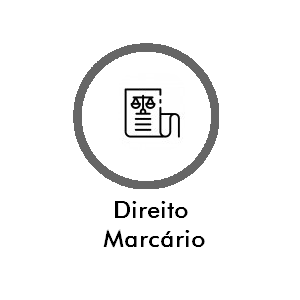
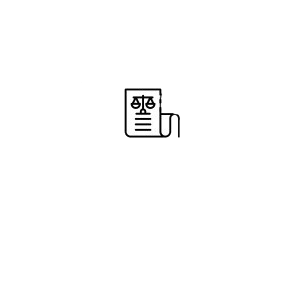
esperando a validação dos ajustes

diff --git a/index.html b/index.html
@@ -71,10 +71,10 @@
 			<section id="acting" class="main__secondSection">
 				<div class="container secondSection__block">
 					<div class="secondSection__areas">
-						<!-- <div>
-							<img src="assets/image/">
-						</div> -->
-						<img class="secondSectionAreas__icons" src="assets/image/iconjud1.png">
+						<div class="secondAreas__border">
+							<img class="secondSectionAreas__icons" src="assets/image/iconjud1.png">
+						</div>
+						<h1 class="secondSection__title">Direito Penal</h1>
 						<ul class="secondSection__paragraph">
 							<li>Presídio</li>
 							<li>Habeas Corpus</li>
@@ -87,67 +87,61 @@
 						</ul>
 					</div>
 					<div class="secondSection__areas">
-						<!-- <div>
-							<img src="assets/image/">
-						</div> -->
-						<img class="secondSectionAreas__icons" src="assets/image/iconjud2.png">
+						<div class="secondAreas__border">
+							<img class="secondSectionAreas__icons" src="assets/image/iconjud2.png">
+						</div>
+						<h1 class="secondSection__title">Direito de Familia</h1>
 						<ul class="secondSection__paragraph">
 							<li>Herança</li>
 							<li>Divórcio</li>
 							<li>Inventário</li>
 							<li>Pensão alimentícia</li>
 							<li>Partilha</li>
-							
-							
 							<li>Reconhecimento União Estável</li>
 						</ul>
 					</div>
 					<div class="secondSection__areas" >
-						<!-- <div>
-							<img src="assets/image/">
-						</div> -->
-						<img class="secondSectionAreas__icons" src="assets/image/iconjud3.png">
+						<div class="secondAreas__border">
+							<img class="secondSectionAreas__icons" src="assets/image/iconjud3.png">
+						</div>
+						<h1 class="secondSection__title">Direito Civil</h1>
 						<ul class="secondSection__paragraph">
 							<li>Seguro DPVAT</li>
 							<li>Contratos-Indenização</li>
 							<li>Acidentes de trânsito</li>
-							
 						</ul>
 					</div>
 					<div class="secondSection__areas">
-						<!-- <div>
-							<img src="assets/image/">
-						</div> -->
-						<img class="secondSectionAreas__icons" src="assets/image/iconjud4.png">
-						<p class="secondSection__paragraph"></p>
+						<div class="secondAreas__border">
+							<img class="secondSectionAreas__icons" src="assets/image/iconjud4.png">
+						</div>
+						<h1 class="secondSection__title">Direito Ambiental</h1>
 						<ul class="secondSection__paragraph">
 							<li>Gestão e controle ambiental</li>
 							<li>Gestão de resíduos sólidos</li>
 							<li>Elaboração, análise e negociação de contratos</li>
 							<li>Atualização legislativa e de jurisprudência ambiental para clientes</li>
 							<li>Suporte em processos de licenciamento ambiental, audiências públicas e gestão de licenciamento</li>
-							
 						</ul>
 					</div>
 					<div class="secondSection__areas">
-						<!-- <div>
-							<img src="assets/image/">
-						</div> -->
-						<img class="secondSectionAreas__icons" src="assets/image/iconjud5.png">
+						<div class="secondAreas__border">
+							<img class="secondSectionAreas__icons" src="assets/image/iconjud5.png">
+						</div>
+						<h1 class="secondSection__title">Direito Marcário</h1>
 						<ul class="secondSection__paragraph">
 							<li>INSS</li>
 							<li>Auxílio doença</li>
 							<li>Concessão de benefício</li>
 							<li>Revisão de aposentadoria</li>
-							
 						</ul>
 						
 					</div>
 					<div class="secondSection__areas">
-						<!-- <div>
-							<img src="assets/image/">
-						</div> -->
-						<img class="secondSectionAreas__icons" src="assets/image/iconjud6.png">
+						<div class="secondAreas__border">
+							<img class="secondSectionAreas__icons" src="assets/image/iconjud6.png">
+						</div>
+						<h1 class="secondSection__title">Direito do Consumidor</h1>
 						<ul class="secondSection__paragraph">
 							<li>Ações Trabalhistas</li>
 							<li>Acordos Extrajuduciais</li>

diff --git a/style.css b/style.css
@@ -27,6 +27,7 @@
 	height: 150px;
 	position: sticky;
 	top: 0;
+	z-index: 10000;
 }
 .header__blockWhite{
 	width: 100%;
@@ -357,24 +358,41 @@ main{
 	width: 300px;
 	height: auto;
 	margin: 13px 10px;
-	/*padding: 0 25px;*/
 	text-align: center;
 	display: flex;
 	align-items: center;
 	flex-direction: column;
 	background: rgba(255,255,255,0.7);	
 	box-shadow: 0 0 8px #242121;
+
+}
+.secondAreas__border{
+	width: 80px;
+	height: 80px;
+	border: 3px solid black;
+	border-radius: 50%;
+	position: relative;
+	margin: 40px 0 15px;
+
+}
+.secondSection__title{
+	font-size: 20px;
+	margin-bottom: 20px;
 }
 .secondSectionAreas__icons{
 	width: 160px;
 	height: 150px;
 	margin: 5px;
+	position: absolute;
+	top: -25px;
+	right: -49px;
+	text-align: center;
 }
 li{
 	color: black;
-	font-size: 15px;
+	font-size: 14px;
 	font-weight: 400;
-	padding: 5px 0;
+	padding: 5px 20px;
 	list-style: none;
 }
 @media(max-width: 768px){
